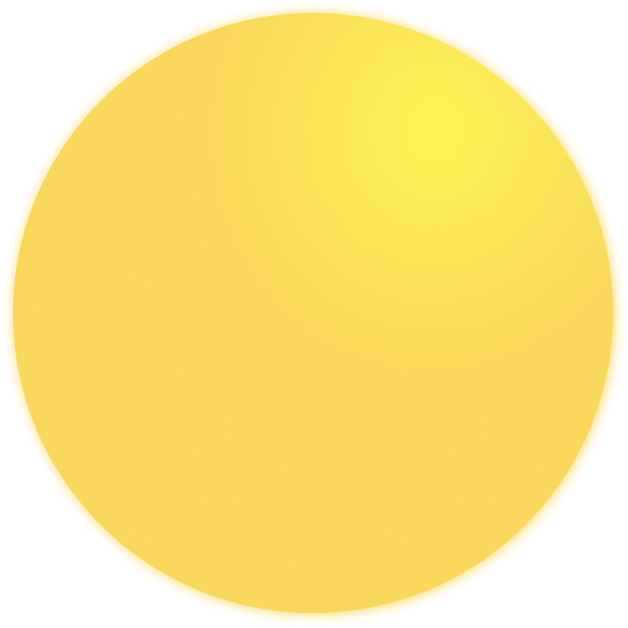
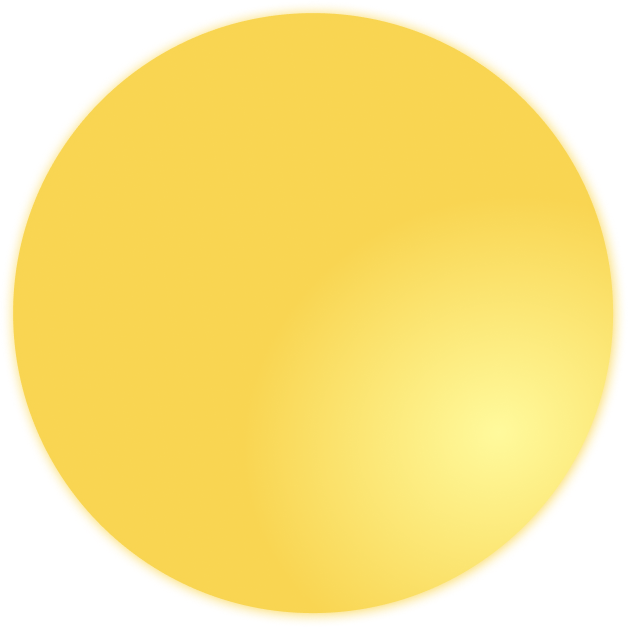
changed some styles, started building next component. need to push for deploy

Changed region(s): [[0.5446, 0.4538, 0.9984, 0.9379], [0.6051, 0.121, 0.7866, 0.3025]]

diff --git a/src/Pages/GameScreen/GameScreen.js b/src/Pages/GameScreen/GameScreen.js
@@ -7,7 +7,8 @@ import EnglishPhrase from "../../Components/EnglishPhrase/EnglishPhrase";
 import FallingBlocks from "../../Components/FallingBlocks/FallingBlocks";
 // import NextList from "../../Components/NextList/NextList";
 import Output from "../../Components/Output/Output";
-import gameImage from "../../Assets/orb.png";
+import gameImage3 from "../../Assets/purpleorb.png";
+
 import phrasesAPI from "../../utils/apiConfig";
 
 class GameScreen extends React.Component {
@@ -250,7 +251,7 @@ componentDidUpdate(prevState){
 
             <div className="main__top-wrapper">
               <BackNav />
-              <h2 className="main__test-title">60s on the clock⏱</h2>
+              <h2 className="main__test-title">60s on the clock👇🏾</h2>
             </div>
 
             <EnglishPhrase phrase={this.state.phraseObj.english} />
@@ -259,8 +260,15 @@ componentDidUpdate(prevState){
             {/* <div className="game__next-list">
                   <NextList ayajuthem={this.state.phraseObj.ayajuthem} />
               </div> */}
-
-              <img className="game__image" src={gameImage} alt="" />
+            <div className="game__image-wrapper">
+              <div className="game__image-top">
+                <img className="game__image" src={gameImage3} alt="" />
+              </div>
+              <div className="game__image-bottom">
+                <img className="game__image" src={gameImage3} alt="" />
+                <img className="game__image" src={gameImage3} alt="" />
+              </div>
+            </div>
 
               <div className="game__fall-space">
                   <FallingBlocks 

diff --git a/src/Pages/DictionaryPage/DictionaryPage.js b/src/Pages/DictionaryPage/DictionaryPage.js
@@ -1,5 +1,7 @@
 import './DictionaryPage.scss';
-import React from 'react';
+import React from "react";
+
+import phrasesAPI from "../../utils/apiConfig";
 
 class DictionaryPage extends React.Component {
     state = {
@@ -18,11 +20,13 @@ class DictionaryPage extends React.Component {
         .then((response) => {
             // get all the phrases from API 
             const allPhrases = response.data;
-    
+            
             //Put all the phrases in current state
             this.setState({
             phrasesArray: allPhrases,
             });
+
+            console.log(this.state.phrasesArray)
         })
   
         .catch((error) => console.error(error));
@@ -34,7 +38,7 @@ class DictionaryPage extends React.Component {
                 <h2 className='phrase-list__header'>Phrases</h2>
                     <div className='phrase-list__list-wrapper'>
                             {/* map through split morpheme array and for each morpheme, return a div with single morph */}
-                            {allPhrases?.map((phrase, id) => {
+                            {this.state.phrasesArray?.map((phrase, id) => {
                                 return(
                                     <div 
                                     key={id}

diff --git a/src/Pages/GameScreen/GameScreen.scss b/src/Pages/GameScreen/GameScreen.scss
@@ -57,7 +57,7 @@
         height: 2rem;
         width: 12rem;
         padding: .5rem 0;
-        font-size: 1.2rem;
+        font-size: 1.25rem;
         font-weight: 400;
         border-radius: 5px;
         font-family: 'Aldrich';
@@ -68,16 +68,38 @@
         // border: 1px solid yellow;
           
     }
+    &image__wrapper{
+        display: flex;
+        flex-direction: column;
+        align-items: center;
+        justify-content: center;
 
+    }
+    &__image-top{
+        display: flex;
+        align-items: center;
+        justify-content: center;
+        width: 10rem;
+    }
+
+    &__image-bottom{
+        display: flex;
+        align-items: center;
+        justify-content: space-between;
+        width: 10rem;
+        
+    }
+    
     &__image{
         // border: 1px solid blue;
         height: auto;
         display: none;
         @include tablet {
             display: flex;
-            width: 14rem;
+            width: 4rem;
             opacity: 100%;
         }
+        animation: spin 6s linear infinite;
 
     }
 

diff --git a/src/App.js b/src/App.js
@@ -3,6 +3,7 @@ import { BrowserRouter, Switch, Route } from 'react-router-dom';
 import { Component } from 'react';
 import HomeScreen from './Pages/HomeScreen/HomeScreen';
 import GameScreen from './Pages/GameScreen/GameScreen';
+import DictionaryPage from './Pages/DictionaryPage/DictionaryPage';
 
 
 class App extends Component {
@@ -15,6 +16,7 @@ class App extends Component {
           <Switch>
             <Route path="/" exact component={HomeScreen} />
             <Route path="/phrases" exact component={GameScreen} />
+            <Route path="/dictionary" exact component={DictionaryPage} />
           </Switch> 
         </BrowserRouter>
       </div>
